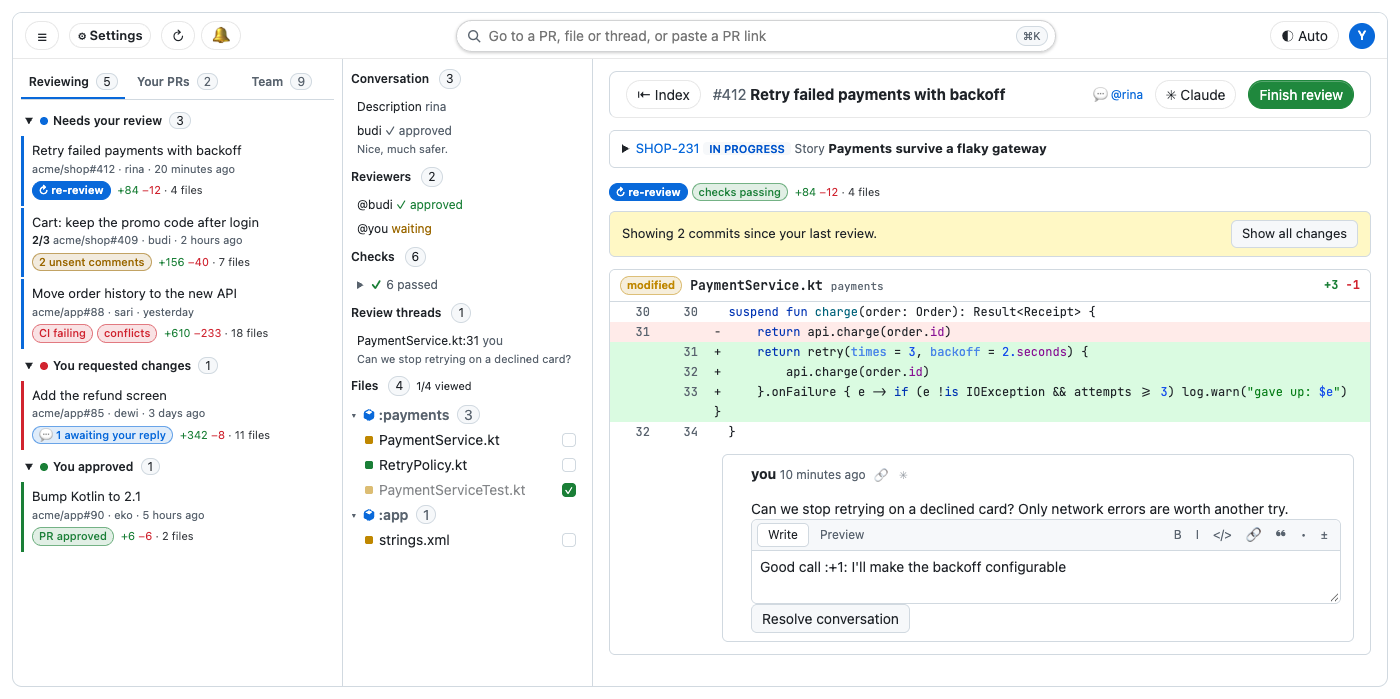
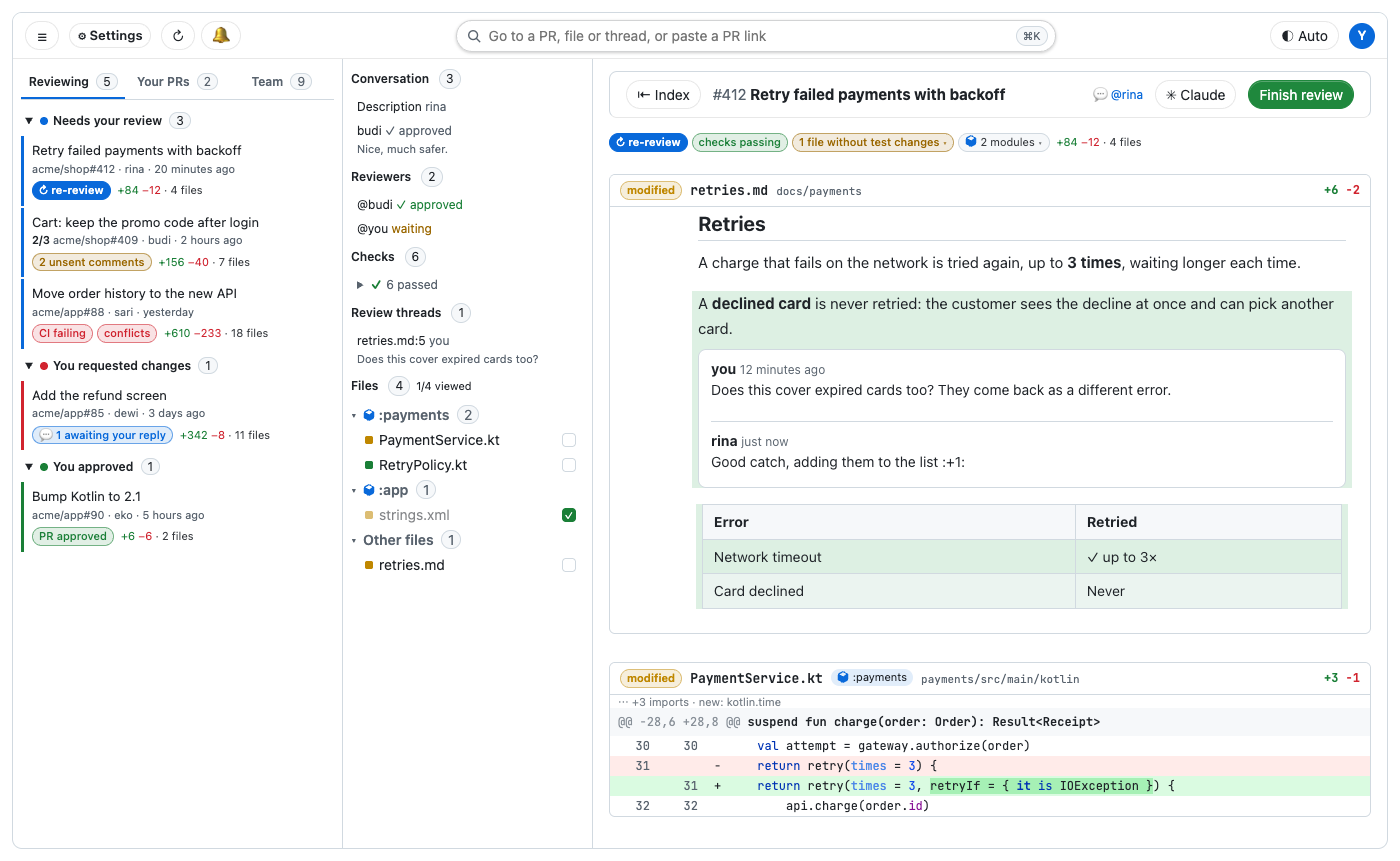
README's whole-window picture shows what GitHub can't
The PR in it is now a markdown file rendered, its changed blocks
marked, with a review thread inside the document, and a Kotlin file
with its imports folded, the hunk named by its function and the changed
words picked out, under pills naming the modules and the untested file;
the index groups the files by module. Scenes mark changed words before
highlighting (the mark could land inside a token).

diff --git a/app/src/demos.tsx b/app/src/demos.tsx
@@ -18,7 +18,7 @@ function Rows({ rows, extra }: { rows: Row[]; extra?: ComponentChildren }) {
           <tr class={`ln${k === '+' ? ' a' : k === '-' ? ' d' : ''}${cls ? ' ' + cls : ''}`}>
             <td class="num">{o}</td>
             <td class="num">{n}</td>
-            <td class="code" dangerouslySetInnerHTML={{ __html: code.startsWith('<') ? code : kt(code) }} />
+            <td class="code" dangerouslySetInnerHTML={{ __html: /^\s*</.test(code) || code.includes('<mark') ? code : kt(code) }} />
           </tr>
         ))}
         {extra}
@@ -27,13 +27,18 @@ function Rows({ rows, extra }: { rows: Row[]; extra?: ComponentChildren }) {
   );
 }
 
-function File({ path, st = 'modified', add, del, children }: { path: string; st?: string; add: number; del: number; children?: ComponentChildren }) {
+function File({ path, st = 'modified', add, del, mod, children }: { path: string; st?: string; add: number; del: number; mod?: string; children?: ComponentChildren }) {
   return (
     <section class="file">
       <header class="file-h">
         <span class={`st s-${st}`}>{st}</span>
         <a class="file-name" title={path}>
           <b>{path.slice(path.lastIndexOf('/') + 1)}</b>
+          {mod && (
+            <span class="file-mod">
+              <ModuleIcon /> {mod}
+            </span>
+          )}
           {path.includes('/') && <span class="file-dir"><bdi>{path.slice(0, path.lastIndexOf('/'))}</bdi></span>}
         </a>
         <span class="counts">
@@ -79,7 +84,11 @@ const WS_ON: Row[] = [
   [' ', 5, 5, '    items.sumOf { it.price }'],
 ];
 
-const mark = (code: string, word: string, cls: string) => kt(code).replace(word, `<mark class="${cls}">${word}</mark>`);
+// A line with its changed words marked: each part highlighted on its own, so the mark can't fall inside a token's span.
+const mark = (code: string, word: string, cls: string) => {
+  const i = code.indexOf(word);
+  return i < 0 ? kt(code) : `${kt(code.slice(0, i))}<mark class="${cls}">${kt(word)}</mark>${kt(code.slice(i + word.length))}`;
+};
 
 const MD_SRC = '## Rollout\n\n- Ship behind the `orders_v2` flag\n- **Remove** the old screen next sprint';
 
@@ -463,6 +472,93 @@ const ReviewScene = ({ thread }: { thread?: ComponentChildren }) => (
       </>
 );
 
+// The whole window's PR: what plain GitHub can't show you. A markdown file rendered (in lgtm's theme), its changed
+// blocks marked, with a review thread inside the document; a Kotlin file with its imports folded to one line, the hunk
+// named by its function, and the changed words picked out; pills that name the modules and the untested file.
+const MdThread = ({ who, when, text }: { who: string; when: string; text: string }) => (
+  <div class="comment">
+    <b>{who}</b> <time>{when}</time>
+    <div class="md">
+      <p>{text}</p>
+    </div>
+  </div>
+);
+const Showcase = () => (
+  <>
+    <Bar />
+    <div class="pills pr-status">
+      <span class="pill p-strong">↻ re-review</span>
+      <span class="pill p-ok">checks passing</span>
+      <span class="pill p-warn">1 file without test changes <span class="pill-caret">▾</span></span>
+      <span class="pill">
+        <ModuleIcon /> 2 modules <span class="pill-caret">▾</span>
+      </span>
+      {(([c, t]) => <span class={`pill ${c}`}>{t}</span>)(size(84, 12, 4))}
+    </div>
+    <File path="docs/payments/retries.md" add={6} del={2}>
+      <div class="rich mdt mdt-lgtm">
+        <div class="md chunk demo-chunk">
+          <h2 data-src="1-1">Retries</h2>
+          <p data-src="3-3">
+            A charge that fails on the network is tried again, up to <strong>3 times</strong>, waiting longer each time.
+          </p>
+          <p data-src="5-5" data-chg="">
+            A <strong>declined card</strong> is never retried: the customer sees the decline at once and can pick another card.
+            <div class="note-host">
+              <div class="notes">
+                <div class="thread">
+                  <MdThread who="you" when="12 minutes ago" text="Does this cover expired cards too? They come back as a different error." />
+                  <MdThread who="rina" when="just now" text="Good catch, adding them to the list :+1:" />
+                </div>
+              </div>
+            </div>
+          </p>
+          <table data-src="7-10" data-chg="">
+            <thead>
+              <tr>
+                <th>Error</th>
+                <th>Retried</th>
+              </tr>
+            </thead>
+            <tbody>
+              <tr>
+                <td>Network timeout</td>
+                <td>✓ up to 3×</td>
+              </tr>
+              <tr>
+                <td>Card declined</td>
+                <td>Never</td>
+              </tr>
+            </tbody>
+          </table>
+        </div>
+      </div>
+    </File>
+    <File path="payments/src/main/kotlin/PaymentService.kt" add={3} del={1} mod=":payments">
+      <table class="diff">
+        <tbody>
+          <Fold text="⋯ +3 imports · new: kotlin.time" />
+          <tr class="hunk">
+            <td colSpan={3}>
+              <div class="hunk-line">
+                <span class="hunk-range">@@ -28,6 +28,8 @@</span> <span class="hunk-ctx">suspend fun charge(order: Order): Result&lt;Receipt&gt;</span>
+              </div>
+            </td>
+          </tr>
+        </tbody>
+      </table>
+      <Rows
+        rows={[
+          [' ', 30, 30, '    val attempt = gateway.authorize(order)'],
+          ['-', 31, '', '    return retry(times = 3) {'],
+          ['+', '', 31, mark('    return retry(times = 3, retryIf = { it is IOException }) {', 'retryIf = { it is IOException }', 'wd-add')],
+          [' ', 32, 32, '        api.charge(order.id)'],
+        ]}
+      />
+    </File>
+  </>
+);
+
 export const SCENES: Record<string, { title: string; width: number; body: ComponentChildren }> = {
   queue: {
     title: 'Your queue',
@@ -579,20 +675,20 @@ SCENES.app = {
               </details>
               <details open class="ix-sec">
                 <summary>Review threads <span class="count">1</span></summary>
-                <button class="ix-item"><span class="ix-label">PaymentService.kt:31 <span class="ix-meta">you</span></span><span class="ix-sub">Can we stop retrying on a declined card?</span></button>
+                <button class="ix-item"><span class="ix-label">retries.md:5 <span class="ix-meta">you</span></span><span class="ix-sub">Does this cover expired cards too?</span></button>
               </details>
               <details open class="ix-sec">
                 <summary>Files <span class="count">4</span> <span class="ck-sum">1/4 viewed</span></summary>
-                {[[':payments', ['PaymentService.kt', 'RetryPolicy.kt', 'PaymentServiceTest.kt']], [':app', ['strings.xml']]].map(([m, files]) => (
+                {[[':payments', ['PaymentService.kt', 'RetryPolicy.kt']], [':app', ['strings.xml']], ['', ['retries.md']]].map(([m, files]) => (
                   <details open class="tree-dir mod-group">
-                    <summary><span class="tree-dir-name"><ModuleIcon /> {m} <span class="count">{files.length}</span></span></summary>
+                    <summary><span class="tree-dir-name">{m ? <><ModuleIcon /> {m}</> : 'Other files'} <span class="count">{files.length}</span></span></summary>
                     {(files as string[]).map((f, i) => (
-                      <div class={i === 2 ? 'tree-row dim' : 'tree-row'}>
+                      <div class={f === 'strings.xml' ? 'tree-row dim' : 'tree-row'}>
                         <button class="tree-file" style={{ paddingLeft: '22px' }}>
                           <span class={`fdot s-${i === 1 ? 'added' : 'modified'}`} />
                           <span class="tree-name">{f}</span>
                         </button>
-                        <span class={i === 2 ? 'vmark on' : 'vmark'}>{i === 2 ? '✓' : ''}</span>
+                        <span class={f === 'strings.xml' ? 'vmark on' : 'vmark'}>{f === 'strings.xml' ? '✓' : ''}</span>
                       </div>
                     ))}
                   </details>
@@ -601,7 +697,7 @@ SCENES.app = {
             </div>
           </aside>
           <div class="scene-app-main">
-            <ReviewScene thread={<Thread who="you" when="10 minutes ago" html={md.render('Can we stop retrying on a declined card? Only network errors are worth another try.')} />} />
+            <Showcase />
           </div>
         </div>
       </div>

diff --git a/app/src/style.css b/app/src/style.css
@@ -745,3 +745,7 @@ html.own-scrollbar::-webkit-scrollbar { display: none; }
 .scene-app-main > .scene-main { padding: 0; }
 .scene-app .vmark { visibility: visible; }
 .scene-avatar { display: inline-grid; place-items: center; width: 26px; height: 26px; border-radius: 50%; background: var(--accent); color: #fff; font-weight: 600; font-size: 13px; }
+.scene-app-main .rich { padding-top: 4px; }
+.scene-app-main .rich .note-host { margin: 8px 0 4px; }
+.scene-app-main .rich .thread { padding: 8px 12px; border: 1px solid var(--border); border-radius: 8px; background: var(--bg); }
+.scene-app-main .rich .thread .comment + .comment { margin-top: 8px; padding-top: 8px; border-top: 1px solid var(--border); }
